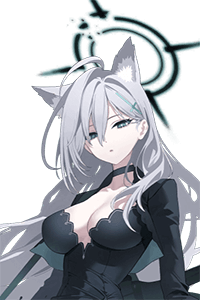
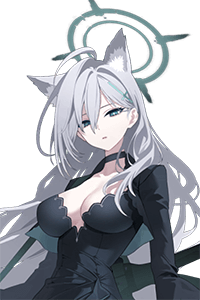
0726更新

diff --git a/wap.html b/wap.html
@@ -8,7 +8,7 @@
 <meta name="viewport" content="width=device-width, initial-scale=1.0, maximum-scale=1.0, minimum-scale=1.0, user-scalable=no" />
 <script async src="https://pagead2.googlesyndication.com/pagead/js/adsbygoogle.js?client=ca-pub-3872937070167241"
      crossorigin="anonymous"></script>
-<title>蔚蓝档案学生喜好排序 (240708)</title>
+<title>蔚蓝档案学生喜好排序 (240726)</title>
 <script type="text/javascript" src="jquery-3.3.1.min.js"></script>
 <script type="text/javascript" src="data.js"></script>
 <script type="text/javascript" src="sort-mobile.js"></script>
@@ -165,6 +165,7 @@
          <li><label><input class="char" value="069" checked="checked" type="checkbox" /><span>野宫</span></label></li>
          <li><label><input class="char" value="070" checked="checked" type="checkbox" /><span>芹香</span></label></li>
          <li><label><input class="char" value="071" checked="checked" type="checkbox" /><span>绫音</span></label></li>
+		 <li><label><input class="char" value="821" checked="checked" type="checkbox" /><span>白子（恐怖）</span></label></li> 
        </ul>
       </fieldset>
     </li>
@@ -385,12 +386,12 @@
          <label><input class="group-inner" name="l" type="checkbox" /><span>阿拜多斯</span></label>
        </legend>
        <ul class="group-chars">
-        <li><label><input class="char" value="821" type="checkbox" /><span>白子（色彩）</span></label></li>
         <li><label><input class="char" value="832" type="checkbox" /><span>梦</span></label></li>
         <li><label><input class="char" value="833" type="checkbox" /><span>星野（1年级）</span></label></li>
 		<li><label><input class="char" value="834" type="checkbox" /><span>星野（2年级）</span></label></li>
 		<li><label><input class="char" value="835" type="checkbox" /><span>野宫（1年级）</span></label></li>
 		<li><label><input class="char" value="841" type="checkbox" /><span>白子（1年级）</span></label></li>
+		<li><label><input class="char" value="843" type="checkbox" /><span>星野（恐怖）</span></label></li>
        </ul>
       </fieldset>
     </li>
@@ -436,6 +437,8 @@
        <ul class="group-chars">
         <li><label><input class="char" value="820" type="checkbox" /><span>兰舞</span></label></li>
         <li><label><input class="char" value="823" type="checkbox" /><span>晶</span></label></li>
+		<li><label><input class="char" value="842" type="checkbox" /><span>明美</span></label></li>
+		<li><label><input class="char" value="844" type="checkbox" /><span>眯眯眼教授</span></label></li>
        </ul>
       </fieldset>
     </li>

diff --git a/pc.html b/pc.html
@@ -8,7 +8,7 @@
 <meta name=”viewport” content=”width=device-width, initial-scale=1.0″>
 <script async src="https://pagead2.googlesyndication.com/pagead/js/adsbygoogle.js?client=ca-pub-3872937070167241"
      crossorigin="anonymous"></script>
-<title>蔚蓝档案学生喜好排序 (240708)</title>
+<title>蔚蓝档案学生喜好排序 (240726)</title>
 <script type="text/javascript" src="jquery-3.3.1.min.js"></script>
 <script type="text/javascript" src="data.js"></script>
 <script type="text/javascript" src="sort.js"></script>
@@ -167,6 +167,7 @@
          <li><label><input class="char" value="069" checked="checked" type="checkbox" /><span>野宫</span></label></li>
          <li><label><input class="char" value="070" checked="checked" type="checkbox" /><span>芹香</span></label></li>
          <li><label><input class="char" value="071" checked="checked" type="checkbox" /><span>绫音</span></label></li>
+         <li><label><input class="char" value="821" checked="checked" type="checkbox" /><span>白子（恐怖）</span></label></li> 
        </ul>
       </fieldset>
     </li>
@@ -387,12 +388,12 @@
          <label><input class="group-inner" name="l" type="checkbox" /><span>阿拜多斯</span></label>
        </legend>
        <ul class="group-chars">
-        <li><label><input class="char" value="821" type="checkbox" /><span>白子（色彩）</span></label></li>
         <li><label><input class="char" value="832" type="checkbox" /><span>梦</span></label></li>
         <li><label><input class="char" value="833" type="checkbox" /><span>星野（1年级）</span></label></li>
 		<li><label><input class="char" value="834" type="checkbox" /><span>星野（2年级）</span></label></li>
 		<li><label><input class="char" value="835" type="checkbox" /><span>野宫（1年级）</span></label></li>
 		<li><label><input class="char" value="841" type="checkbox" /><span>白子（1年级）</span></label></li>
+        <li><label><input class="char" value="843" type="checkbox" /><span>星野（恐怖）</span></label></li>
        </ul>
       </fieldset>
     </li>
@@ -438,6 +439,8 @@
        <ul class="group-chars">
         <li><label><input class="char" value="820" type="checkbox" /><span>兰舞</span></label></li>
         <li><label><input class="char" value="823" type="checkbox" /><span>晶</span></label></li>
+        <li><label><input class="char" value="842" type="checkbox" /><span>明美</span></label></li>
+		<li><label><input class="char" value="844" type="checkbox" /><span>眯眯眼教授</span></label></li>
        </ul>
       </fieldset>
     </li>

diff --git a/data.js b/data.js
@@ -143,7 +143,7 @@ let ResourceData = [
 ,["818","川流シノン","志乃","-","k"]
 ,["819","風巻マイ","麦","-","k"]
 ,["820","河駒風ラブ","兰舞","-","i"]
-,["821","シロコ＊テラー","白子（色彩）","-","l"]
+,["821","シロコ＊テラー","白子（恐怖）","-","l"]
 ,["822","ケイ","key","-","b"]
 ,["823","清澄アキラ","晶","-","i"]
 ,["824","申谷カイ","廻","-","e"]
@@ -164,6 +164,9 @@ let ResourceData = [
 ,["839","椎名ツムギ","䌷","-","o"]
 ,["840","コノカ","木乃香","-","g"]
 ,["841","砂狼シロコ（1年生）","白子（1年级）","-","l"]
+,["842","栗浜アケミ","明美","-","i"]
+,["843","ホシノ＊テラー","星野（恐怖）","-","l"]
+,["844","ニヤニヤ教授","眯眯眼教授","-","i"]
 ,["901","アロナ","阿罗娜","-","j"]
 ,["902","プラナ","普拉娜","-","j"]
 ,["903","ソラ","空","-","j"]

diff --git a/uplog.html b/uplog.html
@@ -129,6 +129,11 @@
 </div>
 </div>
 <div class="mdui-divider"></div>
+<div class="mdui-typo-title" style="font-weight:900;">2.2.240726</div>
+<div class="mdui-text-left">- 添加学生：星野（恐怖）、明美、眯眯眼教授<br/>
+                            - 将白子（色彩）改换至已实装分区下，并改为白子（恐怖）<br/>
+							- 替换了白子（恐怖）的立绘</div>
+<br/>
 <div class="mdui-typo-title" style="font-weight:900;">2.2.240708</div>
 <div class="mdui-text-left">- 添加学生：木乃香、白子（1年级）<br/>
                             - 添加了兰舞、梦的姓氏<br/>
